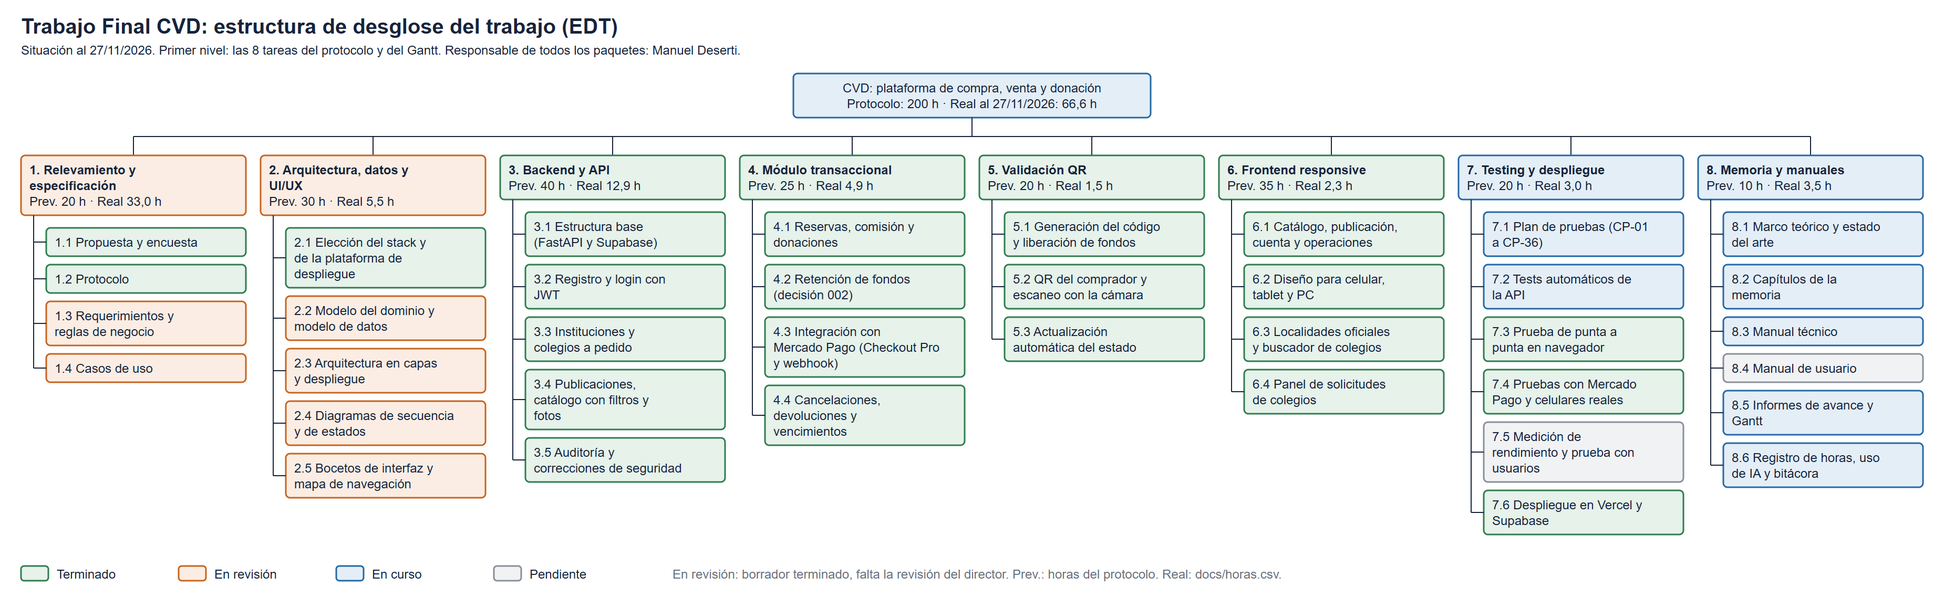
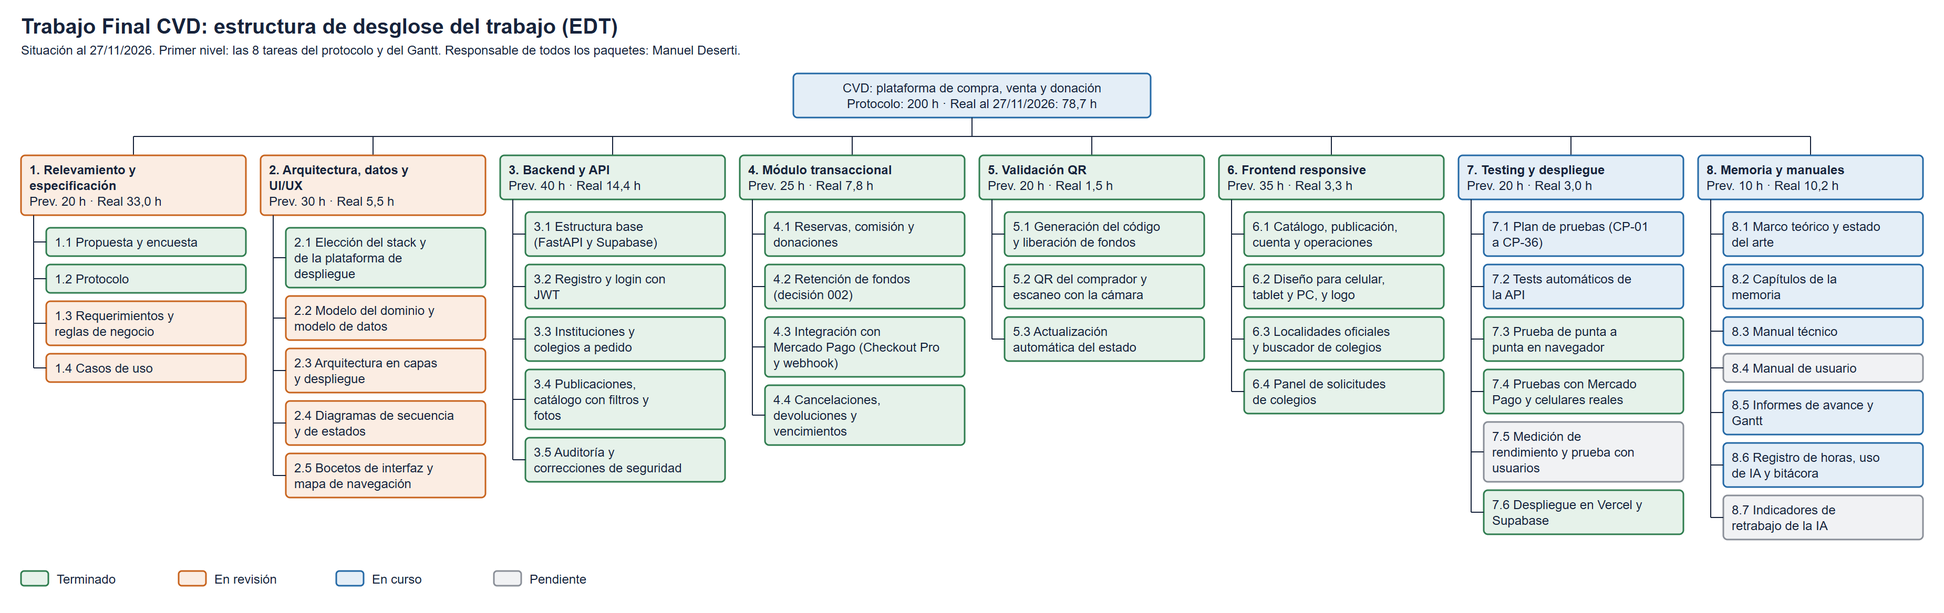
docs: bitacora y EDT revisadas, horas del 01/11, 03/11, 09/11, 18/11 y 27/11
- Bitacora pasada en limpio: una entrada por dia, decisiones numeradas con su justificacion
- EDT: paquete 8.7 (indicadores de retrabajo de la IA) y logo en el 6.2; leyenda sin nota
- horas.csv: 01/11 (3,0 h), 03/11 (+1,4 h), 09/11 (+3,0 h), 18/11 (+1,5 h) y 27/11 (3,2 h); total 78,7 h
- uso-de-ia.md: filas del 01/11 y del 27/11

diff --git a/docs/gestion/edt.py b/docs/gestion/edt.py
@@ -43,7 +43,7 @@ EDT = [
     ]),
     ("6", "Frontend responsive", 35, "Terminado", [
         ("6.1", "Catálogo, publicación, cuenta y operaciones", "Terminado"),
-        ("6.2", "Diseño para celular, tablet y PC", "Terminado"),
+        ("6.2", "Diseño para celular, tablet y PC, y logo", "Terminado"),
         ("6.3", "Localidades oficiales y buscador de colegios", "Terminado"),
         ("6.4", "Panel de solicitudes de colegios", "Terminado"),
     ]),
@@ -62,6 +62,7 @@ EDT = [
         ("8.4", "Manual de usuario", "Pendiente"),
         ("8.5", "Informes de avance y Gantt", "En curso"),
         ("8.6", "Registro de horas, uso de IA y bitácora", "En curso"),
+        ("8.7", "Indicadores de retrabajo de la IA", "Pendiente"),
     ]),
 ]
 
@@ -135,7 +136,6 @@ for estado, (borde, relleno) in COLOR.items():
     leyenda.append(f'<rect x="{x_ley}" y="{y_ley}" width="26" height="14" rx="3" fill="{relleno}" stroke="{borde}" stroke-width="1.5"/>')
     leyenda.append(f'<text x="{x_ley + 34}" y="{y_ley + 12}">{estado}</text>')
     x_ley += 150
-leyenda.append(f'<text x="{x_ley + 20}" y="{y_ley + 12}" fill="#6a7180">En revisión: borrador terminado, falta la revisión del director. Prev.: horas del protocolo. Real: docs/horas.csv.</text>')
 alto_total = y_ley + 40
 
 svg = [

diff --git a/docs/gestion/bitacora.md b/docs/gestion/bitacora.md
@@ -1,67 +1,153 @@
 # Bitácora técnica de desarrollo
 
-**Borrador para revisar con el director.** Formato según el Instructivo, punto 7.12.4: fecha, actividad realizada, decisión adoptada, justificación, evidencia generada e impacto sobre el proyecto.
 
-**Cómo se armó.** Las entradas hasta el 24/11/2026 se reconstruyeron el 27/11 a partir del registro de horas ([`horas.csv`](../horas.csv)), del historial de git, de las decisiones de diseño ([`docs/decisiones/`](../decisiones/)), del registro de uso de IA ([`uso-de-ia.md`](../uso-de-ia.md)) y de los mails con el director. El Instructivo (7.12.3) recomienda no reconstruir el proceso después, así que desde el 27/11 la bitácora se completa al cerrar cada sesión de trabajo. Lo que no quedó registrado en ninguna de esas fuentes figura como *a completar por el autor*.
-
-Las horas de cada entrada son las de `horas.csv`. El detalle del uso de IA de cada sesión está en `uso-de-ia.md`.
-
----
-
-## Mayo a septiembre de 2026 · 31,5 h (estimadas por el autor)
+## Mayo a septiembre de 2026 · 31,5 h 
 
 - **Actividad realizada:** relevamiento del problema, propuesta, encuesta en línea con preguntas de opción múltiple, análisis de factibilidad y redacción del protocolo, con correcciones del director.
 - **Decisión adoptada:** limitar el alcance del prototipo para que entre en 200 horas; las alertas, la administración completa y la calificación quedaron como funcionalidades opcionales.
-- **Justificación:** *a completar por el autor.*
+- **Justificación:** propuesta de la cátedra.
 - **Evidencia generada:** propuesta, resultados de la encuesta, protocolo.
-- **Impacto sobre el proyecto:** define el alcance, el cronograma de 8 tareas y el plazo de entrega. El 14/09 el director pidió registrar el grado y las etapas de uso de IA, y el 20/10 el protocolo obtuvo la aprobación preliminar.
+- **Impacto sobre el proyecto:** define el alcance, el cronograma de 8 tareas y el plazo de entrega.
 
-## 09/08/2026 al 22/08/2026 · 16,9 h
+## 09/08/2026 y 10/08/2026 · 3,9 h
 
-- **Actividad realizada:** primera versión del backend. Repositorio y estructura con FastAPI y Supabase (09 y 10/08); CRUD de instituciones, registro y login (11/08); contraseñas con bcrypt y sesión con JWT, esquemas de publicaciones y categorías (13/08); provincia en instituciones, comisión en transacciones, historial y liberación por QR (14/08); manejo de errores y flujo de donaciones (16/08); normalización de usuarios y módulo de comunicación (22/08).
-- **Decisión adoptada:** las donaciones no pagan comisión; solo las ventas.
-- **Justificación:** *a completar por el autor.*
-- **Evidencia generada:** commits del 09/08 al 22/08 en git.
-- **Impacto sobre el proyecto:** adelanta parte de las tareas 3, 4 y 5, previstas en el protocolo para octubre y noviembre.
+- **Actividad realizada:** creación del repositorio; estructura del backend con FastAPI y conexión a Supabase; validación de los datos de entrada de las instituciones.
+- **Decisión adoptada:** backend en Python con FastAPI y base de datos PostgreSQL en Supabase. Validar los datos de entrada antes de que lleguen a la BD*
+- **Justificación:** Supabase tiene un plan gratuito. Usé Python en varios proyectos anteriormente. No se puede confiar en datos que carga un tercero ajeno al sistema.
+- **Evidencia generada:** commits del 09 y 10/08 en git.
+- **Impacto sobre el proyecto:** empieza la tarea 3, que el protocolo preveía para más adelante.
 
-## 22/08/2026 al 02/11/2026 · pausa
+## 11/08/2026 · 3,9 h
 
-- **Actividad realizada:** ninguna sobre el Trabajo Final, salvo el cierre del protocolo en septiembre.
-- **Decisión adoptada:** pausar el Trabajo Final por la dedicación a otro proyecto.
-- **Justificación:** *a completar por el autor.*
+- **Actividad realizada:** alta, baja y modificación de instituciones; registro y login de usuarios.
+- **Decisión adoptada:**  Contraseñas guardadas con bcrypt, nunca en texto plano. Se eligió el borrado definitivo en la baja de instituciones.
+- **Justificación:** Si alguien accede a la base, no puede leer las contraseñas. En cuanto al borrado definitivo, por simplicidad; en noviembre se sumó el aviso cuando el colegio tiene publicaciones asociadas.
+- **Evidencia generada:** commits del 11/08 en git.
+- **Impacto sobre el proyecto:** avanza la tarea 3.
+
+## 13/08/2026 · 3,0 h
+
+- **Actividad realizada:** autenticación de usuarios; esquemas de publicaciones y categorías de artículos.
+- **Decisión adoptada:** sesión con token JWT, venta y donación como una sola publicación.
+- **Justificación:** el servidor no tiene que guardar las sesiones: cada pedido trae el token y alcanza con verificar la firma. Las ventas y las donaciones tienen los mismos datos salvo el precio, que en una donación es 0. Con una sola tabla y un campo tipo, el catálogo muestra las dos en una única consulta, sin unir tablas.
+- **Evidencia generada:** commits del 13/08 en git.
+- **Impacto sobre el proyecto:** avanzan las tareas 2 y 3.
+
+## 14/08/2026 · 3,0 h
+
+- **Actividad realizada:** catálogo público; comisión en las transacciones; historial de transacciones y liberación de fondos por QR.
+- **Decisión adoptada:**
+    a. El vendedor se toma del token, no de los datos que manda el cliente.
+    b. Cada usuario puede ver sus transacciones, como comprador y como vendedor.
+    c. No se puede comprar un artículo propio ni uno que no esté disponible.
+    d. Solo el vendedor puede escanear el QR, y solo si el pago está pendiente.
+- **Justificación:** 
+    a. Así nadie puede publicar a nombre de otro.
+    b. Cada usuario tiene registro de lo que hizo.
+    c. Evita que un artículo se venda dos veces o que alguien se compre a sí mismo.
+    d. El dinero se libera solo cuando el comprador recibe el artículo en persona.
+- **Evidencia generada:** commits del 14/08 en git.
+- **Impacto sobre el proyecto:** se adelanta parte de las tareas 4 y 5.
+
+## 16/08/2026 · 1,6 h
+
+- **Actividad realizada:** publicación de donaciones, sin comisión, como define el protocolo; validación de precios según el tipo de publicación; manejo de errores unificado.
+- **Decisión adoptada:**
+  1. Una venta tiene que tener precio mayor a 0 y una donación no puede tener precio.
+  2. Los errores esperados le llegan al cliente con su mensaje y su código; los inesperados devuelven un error 500.
+  3. La conexión a la base se cierra siempre, aunque falle la consulta.
+- **Justificación:** 
+  1. Evita publicaciones contradictorias, como una venta gratis o una donación con precio, y el error se avisa antes de tocar la base.
+  2. El frontend puede distinguir un error del usuario, para mostrarle qué corregir, de una falla del sistema.
+  3. Las conexiones que quedan abiertas se acumulan y pueden agotar las que permite la base.
+- **Evidencia generada:** commits del 16/08 en git.
+- **Impacto sobre el proyecto:** avanza la tarea 4.
+
+## 22/08/2026 · 1,5 h
+
+- **Actividad realizada:** Normalización de usuarios y módulo de comunicación
+- **Decisión adoptada:** 
+  1. Separar "nombre completo" en nombre y apellido.
+  2. Se comparten el nombre, el apellido y el teléfono de la otra parte, pero no el mail.
+- **Justificación:** 
+  1. Con nombre y apellido separados se puede ordenar y buscar por apellido, y mostrar solo el nombre donde no hace falta el completo. Además, cada campo guarda un único dato.
+  2. El teléfono alcanza para coordinar la entrega en persona. El mail es el usuario con el que se inicia sesión; compartirlo le da a un desconocido la mitad de los datos para intentar entrar a la cuenta.
+- **Evidencia generada:** commits del 22/08 en git.
+- **Impacto sobre el proyecto:** avanza la tarea 3. Es lo último antes de la pausa.
+
+## 22/08/2026 al 31/10/2026 · pausa
+
+- **Actividad realizada:** ninguna sobre el trabajo final, salvo el cierre del protocolo en septiembre.
+- **Decisión adoptada:** pausar el trabajo final por la dedicación a otro proyecto.
+- **Justificación:** Comencé a desarrollar otro proyecto a la par, pero me demandó más tiempo del esperado. Por lo que decidí pausar el trabajo final.
 - **Evidencia generada:** no hay commits entre el 22/08 y el 02/11.
 - **Impacto sobre el proyecto:** el primer informe de avance, previsto para el 14/10, no se presentó. Las tareas 1 y 2 quedaron demoradas y hubo que reprogramar el Gantt.
 
-## 02/11/2026 · 5,2 h
+## 01/11/2026 al 02/11/2026 · 8,2 h
 
-- **Actividad realizada:** análisis del protocolo y del código existente; elección del stack del frontend; relevamiento del marco regulatorio de la retención de fondos; corrección de huecos de seguridad de la retención; catálogo con filtros; integración con Mercado Pago (Checkout Pro, webhook, devoluciones y vencimientos); RLS en todas las tablas; tests de punta a punta; despliegue del backend en Vercel; capítulos 01 a 04 y manual técnico.
+- **Actividad realizada:** análisis del código existente (01/11, sin commits); análisis del protocolo; elección del stack del frontend; relevamiento del marco regulatorio de la retención de fondos; corrección de huecos de seguridad de la retención; catálogo con filtros; integración con Mercado Pago (Checkout Pro, webhook, devoluciones y vencimientos); base nueva en Supabase con el esquema versionado; RLS en todas las tablas; tests de punta a punta; despliegue del backend en Vercel; capítulos 01 a 04 y manual técnico.
+
+- **Dificultad encontrada:** la base de Supabase de agosto quedó congelada por inactividad durante la pausa.
+
 - **Decisión adoptada:**
   1. Frontend con React y Vite (decisión 001).
   2. Retención propia de los fondos, como dice el protocolo, pero solo en el entorno de pruebas de Mercado Pago (decisión 002).
   3. Backend en Vercel en lugar de Render (decisión 003).
+  4. Crear una base nueva a partir de `schema.sql` y versionar el esquema en git.
+  5. El código QR solo se le entrega al comprador.
+  6. Impedir que dos personas compren el mismo artículo al mismo tiempo.
+  7. Compartir los datos de contacto recién con el pago retenido, y sumar el mail (se revierte lo decidido el 22/08).
+  8. Cualquiera de las partes puede cancelar mientras no haya escaneo. La operación vence a los 7 días sin escaneo, y una venta reservada sin pagar se libera a las 24 horas.
+  9. Baja lógica para las publicaciones.
+  10. No dar por cierto un aviso de Mercado Pago sin verificar su firma y consultar el pago a su API; al cancelar, pedir el reembolso antes de cambiar la base.
+  11. RLS en todas las tablas.
+
 - **Justificación:**
-  1. Separación clara entre cliente y servidor, librerías de QR maduras y despliegue gratuito como sitio estático.
-  2. Retener fondos de terceros con dinero real puede encuadrar como proveedor de servicios de pago (BCRA) y como sujeto obligado ante la UIF; en el entorno de pruebas no hay ese riesgo.
+  1. Separación clara entre cliente y servidor, librerías de QR confiables y despliegue gratuito.
+  2. Retener fondos de terceros con dinero real puede tomarse como proveedor de servicios de pago (BCRA) y como sujeto obligado ante la UIF; en el entorno de pruebas no hay ese riesgo.
   3. Render gratuito duerme el servicio a los 15 minutos y no tiene tareas programadas; Vercel sí, y la tarea diaria además evita que Supabase pause la base.
-- **Evidencia generada:** decisiones 001 a 003, capítulos 01 a 04, manual técnico, backend publicado.
-- **Impacto sobre el proyecto:** las tareas 3 y 4 quedan casi completas en un día. Toda la infraestructura queda en dos plataformas gratuitas.
+  4. Con el esquema en git, la base se recrea en minutos si se pierde; la tarea diaria de la decisión 3 evita que vuelva a congelarse.
+  5. El QR prueba que el comprador recibió el artículo; si lo tuviera el vendedor, podría liberarse el dinero sin entregar nada.
+  6. Sin el bloqueo, dos compras simultáneas podían reservar el mismo artículo.
+  7. Los datos personales se comparten solo cuando hay una compra en firme. El teléfono es opcional en el registro; sin el mail, una operación con alguien que no cargó teléfono quedaba sin forma de coordinar la entrega.
+  8. Si el encuentro no se concreta, nadie queda atado a la operación. Siete días alcanzan para coordinar un encuentro, incluido un fin de semana, sin dejar el dinero retenido indefinidamente; 24 horas evitan que una reserva sin pago bloquee el artículo para los demás.
+  9. Una publicación puede tener operaciones y pagos asociados; borrarla dejaría el historial sin el artículo al que se refiere.
+  10. Cualquiera puede mandar un aviso falso a la dirección del webhook. Si Mercado Pago rechaza un reembolso, la operación queda como estaba y no se registra como devuelto un dinero que no volvió.
+  11. Supabase publica las tablas en su API con una clave que es pública; sin RLS, cualquiera podía leer o modificar la base salteándose el backend.
 
-## 03/11/2026 · 1,8 h
+- **Evidencia generada:** commits del 02/11 en git, decisiones 001 a 003, `schema.sql`, `tests/test_flujo.py`, capítulos 01 a 04, manual técnico, backend publicado.
+- **Impacto sobre el proyecto:** las tareas 3 y 4 quedan casi completas. Toda la infraestructura queda en dos plataformas gratuitas.
 
-- **Actividad realizada:** pruebas de pago en el entorno de pruebas de Mercado Pago; verificación de la devolución con dinero real; auditoría del backend (10 hallazgos) y sus correcciones; tests nuevos; reconstrucción del registro de horas e inicio del registro de uso de IA.
-- **Dificultad encontrada:** Mercado Pago rechazó todas las devoluciones en el entorno de pruebas con `401 · Unauthorized use of live credentials`. Se descartaron 7 causas posibles, una por una.
+
+## 03/11/2026 · 3,2 h
+
+- **Actividad realizada:** pruebas de pago en el entorno de pruebas de Mercado Pago; verificación de la devolución con dinero real; auditoría del backend (10 hallazgos) y sus correcciones; tests nuevos; reconstrucción del registro de horas.
+- **Dificultad encontrada:** Mercado Pago rechazó todas las devoluciones en el entorno de pruebas con `401 · Unauthorized use of live credentials`. Se descartaron 7 causas posibles, una por una, y llevó bastante tiempo concluir que el problema era del entorno de pruebas y no del código, y pasar a verificarlo con dinero real.
+
 - **Decisión adoptada:**
   1. Verificar la devolución con una única operación real de $100, fuera de la plataforma, entre personas conocidas y devuelta en el acto.
-  2. De la auditoría: tope de 3 donaciones pendientes por usuario, plazo de 4 días para retirar una donación, bloqueo temporal del login, paginación del catálogo y restricción `CHECK` de precio en la base. Se descartó el punto 10.
-  3. Modelar ventas y donaciones como una sola entidad con un campo de tipo, en lugar de dos subtipos.
+  2. Tope de 3 donaciones pendientes por usuario.
+  3. Plazo de 4 días para retirar una donación, en lugar de los 7 de las ventas.
+  4. Bloqueo de la cuenta por 15 minutos después de 5 intentos de login fallidos.
+  5. Catálogo paginado de a 20 publicaciones.
+  6. La regla de precio según el tipo de publicación se controla también en la base.
+  7. Los errores internos le muestran al usuario un mensaje genérico; el detalle queda en los registros del servidor.
+  8. El mail se guarda en minúsculas.
+  9. Se evaluó modelar Publicación como una interfaz de la que se desprendan Venta y Donación; se mantuvo una sola publicación con el atributo `tipo`.
 - **Justificación:**
   1. Había que saber si el error era del código o del entorno de pruebas.
-  2. *A completar por el autor* (cada punto se decidió en una entrevista guiada).
-  3. Ventas y donaciones comparten todos los atributos salvo el precio; los subtipos solo agregarían JOINs al catálogo, que es la consulta más frecuente.
+  2. Evita que una persona reserve muchas donaciones sin retirarlas y deje a otros sin acceso a ellas.
+  3. En una donación no hay dinero retenido, así que no hace falta tanto margen; el artículo vuelve antes a estar disponible para otro.
+  4. Frena los intentos de adivinar una contraseña probando muchas seguidas.
+  5. El catálogo no trae todas las publicaciones de una vez: carga más a medida que el usuario baja.
+  6. La regla se cumple aunque alguien escriba en la base sin pasar por la API.
+  7. El mensaje técnico mostraba detalles internos de la base a cualquiera.
+  8. Evita cuentas duplicadas y logins fallidos por escribir el mail con mayúsculas distintas.
+  9. Ventas y donaciones comparten todos los atributos salvo el precio; separarlas solo agregaría uniones de tablas al catálogo, que es la consulta más frecuente. En el modelo del dominio se representan como subtipos de Publicación.
 - **Evidencia generada:** capítulo 04 (tablas de las pruebas), capítulo 02, devolución aprobada por Mercado Pago (`201`, pago en estado `refunded`), `horas.csv`, `uso-de-ia.md`.
 - **Impacto sobre el proyecto:** queda probado que la devolución funciona contra Mercado Pago real. Las devoluciones de la plataforma se cubren con tests automáticos que simulan a Mercado Pago.
 
-## 09/11/2026 · 5,8 h
+## 09/11/2026 · 8,8 h
 
 - **Actividad realizada:** lectura de los documentos de la cátedra; bocetos de interfaz; fotos de las publicaciones; colegios a pedido; frontend completo en React; diseño para PC y tablet; provincias y localidades oficiales; buscador de colegios; logo; despliegue del frontend; compra en el entorno de pruebas y escaneo del QR entre dos celulares reales, con la pantalla del QR actualizándose sola (CP-19); borradores de los informes de avance, casos de uso, diseño y plan de pruebas.
 - **Dificultad encontrada:** con un mail real o con la sesión de una cuenta real, Mercado Pago rechaza el pago con "una de las partes es de prueba". El pago funcionó como invitado, con la tarjeta de prueba aprobada.
@@ -70,50 +156,77 @@ Las horas de cada entrada son las de `horas.csv`. El detalle del uso de IA de ca
   2. TypeScript en el frontend y `@yudiel/react-qr-scanner` en lugar de `html5-qrcode` (actualización de la decisión 001).
   3. Administración mínima: solo la pantalla de solicitudes de colegios.
   4. Localidades de Georef, el servicio oficial de normalización geográfica.
+  5. Hasta 5 fotos por publicación, en JPG, PNG o WebP y de hasta 5 MB cada una, guardadas en Supabase Storage (RN-14).
+  6. La pantalla del QR se actualiza consultando cada 5 segundos, en lugar de mantener una conexión en tiempo real.
 - **Justificación:**
-  1. *A completar por el autor.*
+  1. No se pueden cargar de antemano todos los colegios del país: se agregan a medida que los usuarios los necesitan, y el administrador revisa cada pedido para que no haya duplicados ni colegios inexistentes.
   2. Los tipos evitan errores con los estados de una operación; la última versión de `html5-qrcode` es de 2023.
   3. El panel completo es opcional en el protocolo y la API ya cubre la gestión de instituciones.
-  4. *A completar por el autor.*
-- **Evidencia generada:** frontend publicado, capítulo 05, `frontend/e2e/flujo.mjs` (24 pasos), capturas en tres anchos, borradores de los capítulos 00, 01, 06, 07 y 08.
-- **Impacto sobre el proyecto:** la tarea 6 y la tarea 5 quedan terminadas. El sistema completo queda publicado y probado de punta a punta.
+  4. Nombres oficiales y uniformes de provincias y localidades. Si cada usuario escribiera su ciudad, la misma aparecería de varias formas ("Mar del Plata", "MdP") y los filtros del catálogo no funcionarían.
+  5. El límite cuida el espacio del plan gratuito de Supabase, y esos formatos los muestra cualquier navegador.
+  6. El backend corre en Vercel, que no mantiene conexiones abiertas. Una consulta cada 5 segundos es simple y alcanza, porque el comprador espera unos segundos frente al vendedor.
+- **Evidencia generada:** commits del 09/11 en git, frontend publicado, logo, capítulo 05, `frontend/e2e/flujo.mjs` (24 pasos), capturas en tres anchos, borradores de los informes de avance y de los capítulos 00, 01, 06, 07 y 08.
+- **Impacto sobre el proyecto:** las tareas 5 y 6 quedan terminadas. El sistema completo queda publicado y probado de punta a punta.
 
 ## 16/11/2026 · 3,4 h
 
 - **Actividad realizada:** se rehicieron los diagramas UML con el libro de la cátedra (Larman): casos de uso, modelo del dominio, secuencia de pagar y cancelar, estados de la operación y de la publicación, paquetes, despliegue, modelo de datos y navegación. Camino crítico en el Gantt.
-- **Decisión adoptada:** seguir la notación de Larman en todos los diagramas, uno por vez, solo los que pide la tesis.
-- **Justificación:** es la bibliografía de la materia y la forma en que se enseñaron los diagramas en la facultad.
-- **Evidencia generada:** `docs/memoria/diagramas/` (10 diagramas y sus generadores), capítulos 06 y 07.
-- **Impacto sobre el proyecto:** las tareas 1 y 2 quedan en borrador completo, a revisar con el director.
+- **Decisión adoptada:**
+  1. Seguir la notación de Larman en todos los diagramas, uno por vez, solo los que pide la tesis.
+  2. Casos de uso en formato completo; los pasos que se repiten en varios casos se separan en casos de nivel subfunción, relacionados con «include».
+  3. En el modelo del dominio, Venta y Donación se representan como subtipos de Publicación.
+  4. Provincia y Localidad como clases conceptuales, no como atributos.
+  5. La navegación entre pantallas se representa con un diagrama de estados.
+  6. No incluir un diagrama de clases de diseño (provisorio, a confirmar con el director).
+- **Justificación:**
+  1. Es la bibliografía de la materia y la forma en que se enseñaron los diagramas en la facultad.
+  2. Un paso común se escribe una sola vez y los demás casos lo referencian.
+  3. En el dominio son conceptos distintos, con reglas propias (comisión, plazos, tope de donaciones). En la base se guardan en una sola tabla (ver 03/11): el modelo del dominio representa conceptos, no tablas.
+  4. Según Larman, si algo no es un número o un texto simple en el mundo real, es una clase conceptual. Provincias y localidades tienen identidad propia y vienen de un catálogo oficial (Georef).
+  5. Larman propone los diagramas de estados para modelar la navegación de la interfaz: cada pantalla es un estado y cada acción del usuario, una transición.
+  6. El backend sigue el estilo de guion de transacción y el frontend usa componentes funcionales de React. Casi no hay clases propias con métodos que dibujar.
+- **Evidencia generada:** commits del 16/11 en git, `docs/memoria/diagramas/` (10 diagramas y sus generadores), capítulos 06 y 07.
+- **Impacto sobre el proyecto:** diagramas más completos y alineados a la nomenclatura estudiada.
+
 
 ## 17/11/2026 · 1,0 h
 
-- **Actividad realizada:** informes de avance y Gantt con fechas nuevas; mail al director con los dos informes.
-- **Decisión adoptada:** en el objetivo específico 5 y en el alcance, "pasarela de pago (Mercado Pago)" en lugar de "billetera virtual". El marco teórico se marca como cumplido parcialmente.
-- **Justificación:** describe con más precisión lo que hace el sistema, que cobra a través de Mercado Pago. El marco teórico todavía no tiene fuentes leídas ni citas.
-- **Evidencia generada:** `docs/informes/` (Gantt y dos checklists .docx), capítulo 00.
+- **Actividad realizada:** informes de avance y Gantt con fechas nuevas; revisión de los checklists; mail al director con los dos informes.
+- **Decisión adoptada:**
+  1. En el objetivo específico 5 y en el alcance, "pasarela de pago (Mercado Pago)" en lugar de "billetera virtual".
+  2. El marco teórico se marca como cumplido parcialmente.
+  3. Nuevas fechas en el Gantt: las tareas 1 y 2 cierran con las correcciones del director, y el marco teórico va del 18/11 al 30/11.
+  4. Proponer al director presentar el primer informe junto con el segundo, con un solo Gantt.
+  5. Consultar al director si se pueden sumar las funcionalidades opcionales del protocolo sin cambiar los objetivos ni la fecha de entrega, y esperar su respuesta antes de empezarlas.
+- **Justificación:**
+  1. Describe con mayor precisión lo que hace el sistema, que cobra a través de Mercado Pago.
+  2. El marco teórico todavía no tiene fuentes leídas ni citas.
+  3. La pausa dejó desactualizado el cronograma original, y las tareas 1 y 2 dependen de la revisión del director.
+  4. El primer informe no se presentó el 14/10. Presentar los dos con el estado real evita entregar un documento ya desactualizado.
+  5. El uso de IA bajó los tiempos del desarrollo y dejó horas disponibles, pero sumar alcance sin consultar podía obligar a modificar el protocolo.
+- **Evidencia generada:** commits del 17/11 en git, `docs/informes/` (Gantt y dos checklists .docx), capítulo 00, mail del 17/11 al director.
 - **Impacto sobre el proyecto:** los informes quedan listos para la revisión del director.
 
-## 18/11/2026 · 1,0 h
+## 18/11/2026 · 2,5 h
 
 - **Actividad realizada:** búsqueda y verificación de 21 fuentes para el marco teórico y de las plataformas del estado del arte; consulta a la cátedra sobre presentar los dos informes juntos.
-- **Decisión adoptada:** la lectura de las fuentes y la elección de qué citar quedan a cargo del autor.
-- **Justificación:** no se cita nada que no se haya leído.
-- **Evidencia generada:** `docs/fuentes/fuentes-marco-teorico.html`.
-- **Impacto sobre el proyecto:** aparece el diferencial frente a plataformas parecidas: retención del pago, QR en la entrega presencial y organización por colegio. El director avisa que revisa los informes la semana siguiente.
+- **Decisión adoptada:**
+  1. Consultar a la cátedra si se pueden presentar los dos informes juntos, después de la revisión del director, con un solo Gantt.
+  2. Además de libros y artículos, usar documentación técnica oficial y normas, y vincular cada fuente con una parte del diseño, la implementación o las pruebas.
+  3. La lectura de las fuentes y la elección de qué citar quedan a cargo del autor.
+- **Justificación:**
+  1. El director no llegaba a revisar los informes antes del 19/11; convenía consultar antes de presentarlos sin su revisión.
+  2. El Instructivo (7.4) acepta documentación oficial y normas, y pide que cada concepto del marco teórico se relacione con el trabajo.
+  3. No se cita nada que no se haya leído.
+- **Evidencia generada:** `docs/fuentes/fuentes-marco-teorico.html`, mail a la cátedra del 18/11.
+- **Impacto sobre el proyecto:** aparece el diferencial frente a plataformas parecidas: retención del pago, QR en la entrega presencial y organización por colegio. 
 
-## 23/11/2026 y 24/11/2026 · sin horas registradas
 
-- **Actividad realizada:** respuesta del director y acuerdo de reunión para la semana del 30/11, por la mañana.
-- **Decisión adoptada:** pedidos del director: presentar el último Gantt con la justificación del atraso (consultándolo antes con la cátedra), medir el retrabajo y la tasa de errores introducidos por la IA, compartir la documentación del proyecto (EDT y bitácora) y mostrar el avance en una reunión.
-- **Justificación:** según el director, la IA aceleró mucho el desarrollo y dejó holgura para sumar funcionalidades, pero la estimación de horas no fue acertada.
-- **Evidencia generada:** mails del 23 y 24/11.
-- **Impacto sobre el proyecto:** se arman la EDT y esta bitácora, y hay que sumar indicadores de retrabajo de IA al registro.
 
-## 27/11/2026 · *horas a completar*
+## 27/11/2026 · 3,2 h
 
-- **Actividad realizada:** revisión de los documentos de la cátedra sobre la EDT y la bitácora; borradores de la EDT y de esta bitácora.
-- **Decisión adoptada:** la EDT toma como primer nivel las 8 tareas del protocolo. La bitácora sigue los campos del Instructivo 7.12.4.
-- **Justificación:** la cátedra no pide un formato para la EDT; mantener las 8 tareas permite compararla con el Gantt y con las horas registradas.
+- **Actividad realizada:** revisión de la EDT y de esta bitácora.
+- **Decisión adoptada:** reestructuración de la EDT y pasada en limpio de la bitácora 
+- **Justificación:** la cátedra no pide un formato para la EDT; la bitácora era un borrador con notas informales de las decisiones tomadas con sus justificaciones.
 - **Evidencia generada:** `docs/gestion/edt.md`, `edt.svg`, `edt.png`, `bitacora.md`.
-- **Impacto sobre el proyecto:** queda la documentación que pidió el director para la reunión.
+- **Impacto sobre el proyecto:** mejor documentación del proyecto.

diff --git a/docs/uso-de-ia.md b/docs/uso-de-ia.md
@@ -22,6 +22,7 @@ En la práctica, desde noviembre de 2026 el uso es de grado **alto** en todo el 
 |---|---|---|---|---|---|
 | 05–09/2026 | 1 Requerimientos | *A completar por el autor* | *A completar* (el director observó en junio un uso evidente de IA en la redacción de la propuesta) | Idea, investigación, encuesta y su difusión, correcciones con el director | *A completar* |
 | 08/2026 | 3 Backend y API | Gemini | *A completar*: asistencia en el backend inicial (FastAPI, autenticación, publicaciones, transacciones, liberación por QR) | *A completar* | *A completar* |
+| 01/11/2026 | 3, 4 | Claude Code (Claude Opus) | Análisis del código existente del backend y del módulo transaccional | *A completar por el autor* | Alto |
 | 02/11/2026 | 1, 2, 3, 4, 7, 8 | Claude Code (Claude Opus) | Análisis del código y del protocolo; plan de desarrollo; comparativa de stacks; relevamiento regulatorio; correcciones de seguridad del escrow; catálogo con filtros; integración con Mercado Pago (pagos, webhook, devoluciones, vencimientos); tests; configuración del despliegue; borradores de los capítulos 01 a 04 y de las decisiones 001 a 003 | Eligió el stack y el enfoque regulatorio; decidió mantener la retención propia del protocolo; creó y configuró Supabase, Vercel y Mercado Pago; aprobó cada commit y cada merge | Alto |
 | 03/11/2026 | 4, 7, 8 | Claude Code (Claude Opus) | Diagnóstico de las devoluciones en el sandbox de Mercado Pago; script de la prueba con dinero real; búsqueda en la documentación oficial con el MCP de Mercado Pago | Hizo los pagos de prueba; consiguió quien pagara la prueba real; decidió hacer la verificación con dinero real | Alto |
 | 03/11/2026 | 3, 7, 8 | Claude Code (Claude Opus) | Auditoría del backend (informe con 10 hallazgos y propuestas); implementación de las correcciones aprobadas; tests; migración de Supabase; actualización de los capítulos 01 a 03 | Decidió cada punto en una entrevista guiada: tope de 3 donaciones, plazo de 4 días, bloqueo temporal del login, paginación para scroll infinito, `CHECK` de precio en la base; descartó el punto 10; propuso modelar ventas y donaciones como subtipos (se documentó por qué se eligió otra opción) | Alto |
@@ -30,6 +31,7 @@ En la práctica, desde noviembre de 2026 el uso es de grado **alto** en todo el 
 | 16/11/2026 | 1, 2, 8 | Claude Code (Claude Opus) | Lectura del índice y de los capítulos del libro de la cátedra (Larman) para cada diagrama; comparación con los diagramas existentes; dibujo de los diagramas en SVG; ajuste de los textos de los capítulos 01, 02, 03, 05, 06 y 07; camino crítico en el Gantt | Aportó el libro y el método (un diagrama por vez, solo los que pide la tesis); decidió cada cambio: nivel de los casos de uso, «include», generalización Venta/Donación, Provincia y Localidad como clases conceptuales, módulos reales en la secuencia, notas solo para los efectos en la base, rombos del modelo de datos, navegación como diagrama de estados; cuestionó la notación (corchetes, notas, componentes en la secuencia); dejó el Gantt para después de hablar con el director | Intermedio |
 | 17/11/2026 | 8 | Claude Code (Claude Opus) | Revisión del mensaje al director según el avance; actualización de fechas y textos de los checklists; regeneración del Gantt y de los .docx; lectura del Instructivo sobre marco teórico y estado del arte; propuesta de temas | Decidió los cambios al mensaje; pidió que los textos reflejen el respaldo real de las decisiones; pasó el marco teórico a cumplido parcialmente; dejó la búsqueda de fuentes como próximo paso, con la lectura a su cargo; hizo corregir varias veces los textos propuestos | Intermedio |
 | 18/11/2026 | 8 | Claude Code (Claude Opus) | Repaso de las pautas de los informes de avance sobre entregas atrasadas; borradores de los mails al director y a la cátedra; búsqueda y verificación en la web de 21 fuentes para el marco teórico y de las plataformas del estado del arte, con qué leer de cada una | Decidió acortar los mails y a quién dirigirlos; pidió consultar a la cátedra por presentar los dos informes juntos; queda a su cargo leer las fuentes y decidir cuáles citar | Intermedio |
+| 27/11/2026 | 8 | Claude Code (Claude Opus) | Lectura de los documentos de la cátedra sobre la EDT y la bitácora; borradores de la EDT y de la bitácora; revisión de los commits de agosto y noviembre para identificar las decisiones de cada sesión; propuestas de redacción de decisiones y justificaciones; diagrama de la EDT | Decidió qué decisiones registrar y cuáles descartar; reescribió las justificaciones con sus palabras; corrigió las horas de varias sesiones (01/11, 03/11, 09/11, 18/11); pidió sacar los textos que no le parecían relevantes | Intermedio |
 
 ## Forma de trabajo acordada desde noviembre de 2026
 

diff --git a/docs/gestion/edt.md b/docs/gestion/edt.md
@@ -6,7 +6,7 @@ El primer nivel son las 8 tareas del cronograma del protocolo, las mismas del Ga
 
 ![EDT](edt.png)
 
-El diagrama se genera con `python docs/gestion/edt.py` (las horas reales se leen de `horas.csv`). Para el PNG: `node docs/informes/svg-a-png.mjs <ruta absoluta a frontend> "<edt.svg>|<edt.png>|1850|579|2"`.
+El diagrama se genera con `python docs/gestion/edt.py` (las horas reales se leen de `horas.csv`). Para el PNG: `node docs/informes/svg-a-png.mjs <ruta absoluta a frontend> "<edt.svg>|<edt.png>|1850|584|2"`.
 
 ## Diccionario de la EDT
 
@@ -40,7 +40,7 @@ El diagrama se genera con `python docs/gestion/edt.py` (las horas reales se leen
 | 5.3 | Actualización automática del estado | La pantalla del QR se actualiza sola cada 5 s | Terminado |
 | **6** | **Frontend responsive** (prev. 35 h) | | Terminado |
 | 6.1 | Catálogo, publicación, cuenta y operaciones | `frontend/`, publicado en Vercel | Terminado |
-| 6.2 | Diseño para celular, tablet y PC | Capturas en tres anchos (`frontend/e2e/capturas`) | Terminado |
+| 6.2 | Diseño para celular, tablet y PC, y logo | Capturas en tres anchos (`frontend/e2e/capturas`); logo en el menú, el inicio y la pestaña del navegador | Terminado |
 | 6.3 | Localidades oficiales y buscador de colegios | Provincias y localidades de Georef (`localidades.json`) | Terminado |
 | 6.4 | Panel de solicitudes de colegios | Pantalla de administración mínima (RF-13) | Terminado |
 | **7** | **Testing y despliegue** (prev. 20 h) | | En curso |
@@ -57,9 +57,10 @@ El diagrama se genera con `python docs/gestion/edt.py` (las horas reales se leen
 | 8.4 | Manual de usuario | | Pendiente |
 | 8.5 | Informes de avance y Gantt | `docs/informes/` | En curso |
 | 8.6 | Registro de horas, uso de IA y bitácora | [`horas.csv`](../horas.csv), [`uso-de-ia.md`](../uso-de-ia.md), [`bitacora.md`](bitacora.md) | En curso |
+| 8.7 | Indicadores de retrabajo de la IA | Correcciones pedidas a la IA y errores que introdujo, por sesión (pedido del director del 23/11) | Pendiente |
 
 ## Observaciones
 
-- **Horas previstas y reales.** Se llevan 66,6 h de las 200 h del protocolo. La diferencia más grande está en las tareas 3 a 6 (21,6 h reales contra 120 h previstas), por el uso de IA desde noviembre. La tarea 1 es la única que superó lo previsto (33 h contra 20 h), por el relevamiento y la encuesta.
+- **Horas previstas y reales.** Se llevan 78,7 h de las 200 h del protocolo. La diferencia más grande está en las tareas 3 a 6 (27,0 h reales contra 120 h previstas), por el uso de IA desde noviembre. La tarea 1 es la única que superó lo previsto (33 h contra 20 h), por el relevamiento y la encuesta.
 - **Fuera de la EDT.** Las funcionalidades opcionales del protocolo (alertas, administración completa, calificación) no están incluidas. Se suman como paquete nuevo si el director lo aprueba.
 - **Estados.** "En revisión" quiere decir que el borrador está terminado y falta la revisión del director.
